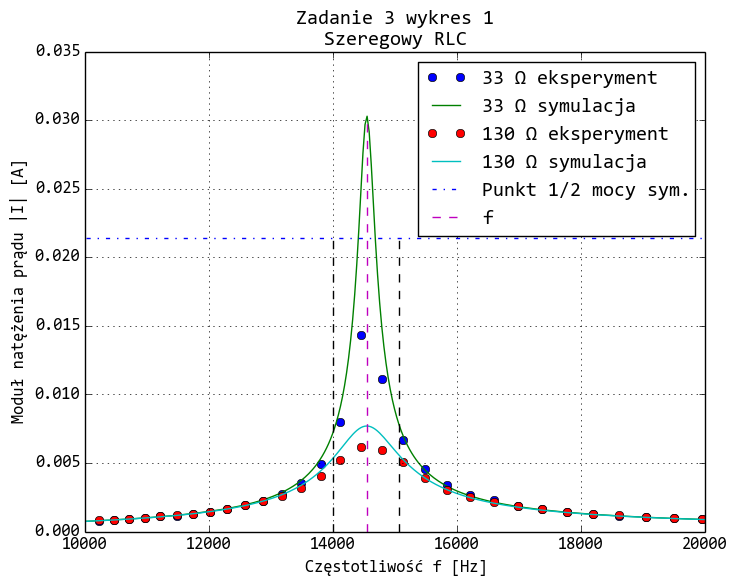
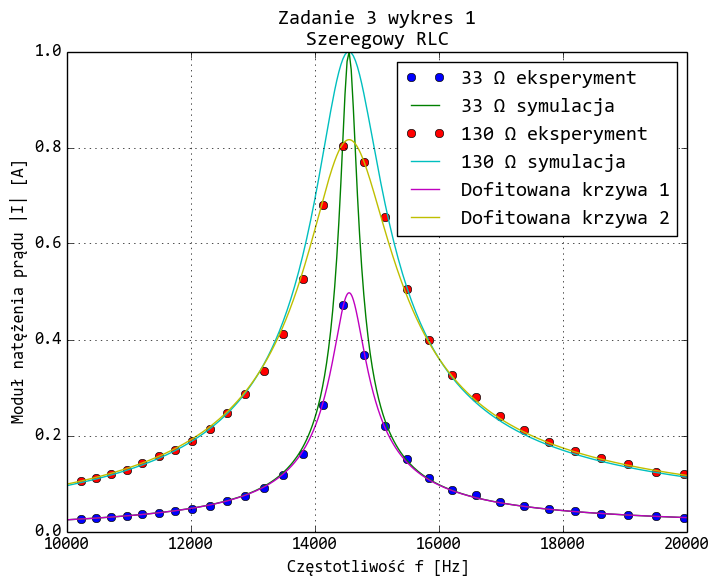
Tyle zabawy z fitowaniem

diff --git a/Cw2Rezonans/Karolina/BodePlotMultifileZ3W1.py b/Cw2Rezonans/Karolina/BodePlotMultifileZ3W1.py
@@ -1,8 +1,9 @@
 # -*- coding: utf-8 -*-
-from __future__ import unicode_literals
+from __future__ import unicode_literals, division
 import numpy as np
 import matplotlib.pyplot as plt
 from matplotlib import rc
+import scipy.optimize
 import os
 from matplotlib.ticker import MultipleLocator, FormatStrFormatter, FixedLocator
 
@@ -10,20 +11,21 @@ rc('font', family='Consolas')
 from matplotlib.ticker import MultipleLocator, FormatStrFormatter, FixedLocator
 
 files = ["real_zad1_r30_Gaussed.dat","sim_zad1_r30.dat","real_zad1_r130_Gaussed.dat", "sim_zad1_r130.dat"]
+
 Dane=[]
 for NazwaPliku in files:
     Dane.append(np.loadtxt(NazwaPliku))
 Xex=Dane[0][:, 0]
-Yex=10**(Dane[0][:, 1]/20.)/33.
+Yex=10**(Dane[0][:, 1]/20.)
 plt.plot(Xex, Yex, "o", label=u"33 Ω eksperyment")
 Xsim=Dane[1][:, 0]
-Ysim=10**(Dane[1][:, 1]/20.)/33.
+Ysim=10**(Dane[1][:, 1]/20.)
 plt.plot(Xsim, Ysim, "-", label=u"33 Ω symulacja")
 Xex2=Dane[2][:, 0]
-Yex2=10**(Dane[2][:, 1]/20.)/130.
+Yex2=10**(Dane[2][:, 1]/20.)
 plt.plot(Xex2, Yex2, "o", label=u"130 Ω eksperyment")
 Xsim2=Dane[3][:, 0]
-Ysim2=10**(Dane[3][:, 1]/20.)/130.
+Ysim2=10**(Dane[3][:, 1]/20.)
 plt.plot(Xsim2, Ysim2, "-", label=u"130 Ω symulacja")
 
 
@@ -31,13 +33,64 @@ minx=np.round((min((min(Xsim), min(Xex)))/10000))*10000
 maxx=np.round((max((max(Xsim), max(Xex)))/10000))*10000
 xticks=np.linspace(minx, maxx, 6)
 
+#WERSJA Z FITEM f0
+##def Lorentz(f, Q, f0,A):
+##    return A/np.sqrt(1+Q*Q*(f/f0 - f0/f)**2)
+##popt, pcov = scipy.optimize.curve_fit(Lorentz, Xex, Yex)
+##perr = np.sqrt(np.diag(pcov))
+##print "[Q\tf0\tA]"
+##print popt
+##print perr
+##Xtheory=np.linspace(minx, maxx, 100000)
+##Ytheory=Lorentz(Xtheory, popt[0], popt[1], popt[2])
+##plt.plot(Xtheory, Ytheory, "-", label=u"Dofitowana krzywa")
 
-Ysim_quality=max(Ysim)/np.sqrt(2)
-Xsim_quality=[min(Xsim),max(Xsim)]
-plt.plot(Xsim_quality, [Ysim_quality,Ysim_quality], "b-.", label=u"Punkt 1/2 mocy sym.")
-plt.plot([14007,14007], [0,Ysim_quality], "k--")
-plt.plot([15074,15074], [0,Ysim_quality], "k--")
-plt.plot([1.455459100000000035e+04,1.455459100000000035e+04], [0,max(Ysim)], "m--", label=u"f\0")
+f0=14554.
+def Lorentz(f, Q, A):
+    return A/np.sqrt(1.+Q*Q*(f/f0 - f0/f)**2)
+popt, pcov = scipy.optimize.curve_fit(Lorentz, Xex, Yex)
+perr = np.sqrt(np.diag(pcov))
+print "[Q\tA]"
+print 2*popt
+print perr
+Xtheory=np.linspace(minx, maxx, 100000)
+Ytheory=Lorentz(Xtheory, popt[0], popt[1])
+plt.plot(Xtheory, Ytheory, "-", label=u"Dofitowana krzywa 1")
+
+popt, pcov = scipy.optimize.curve_fit(Lorentz, Xex2, Yex2)
+perr = np.sqrt(np.diag(pcov))
+print "[Q\tA]"
+print 2*popt
+print perr
+Xtheory=np.linspace(minx, maxx, 100000)
+Ytheory=Lorentz(Xtheory, popt[0], popt[1])
+plt.plot(Xtheory, Ytheory, "-", label=u"Dofitowana krzywa 2")
+
+
+
+##YsimQfactor=np.ones_like(Yex)*max(Yex)/np.sqrt(2)
+##Ysimf2=14689.
+##Ysimf1=14421.
+##B=Ysimf2-Ysimf1
+##print B
+##Q=f0/B
+##print Q
+##print np.abs(Ysim-YsimQfactor)
+##plt.plot(Xsim, np.abs(Ysim-YsimQfactor))
+##plt.show()
+
+
+
+##plt.plot(Xex, YsimQfactor, "-.")
+##Ysim2Qfactor=np.ones_like(Ysim2)*max(Ysim2)/np.sqrt(2)
+##plt.plot(Xsim2, Ysim2Qfactor, "-.")
+##Ysim_quality=max(Ysim)/np.sqrt(2)
+##Xsim_quality=[min(Xsim),max(Xsim)]
+##plt.plot(Xsim_quality, [Ysim_quality,Ysim_quality], "b-.", label=u"Punkt 1/2 mocy sym.")
+##plt.plot([14007,14007], [0,Ysim_quality], "k--")
+##plt.plot([15074,15074], [0,Ysim_quality], "k--")
+##plt.plot([1.455459100000000035e+04,1.455459100000000035e+04], [0,max(Ysim)], "m--", label=u"f\0")
+
 xticks=np.linspace(minx, maxx, 6)
 
 #plt.xscale('log')

diff --git a/Cw2Rezonans/Karolina/BodePlotMultifileZ5W1.py b/Cw2Rezonans/Karolina/BodePlotMultifileZ5W1.py
@@ -1,9 +1,10 @@
 # -*- coding: utf-8 -*-
-from __future__ import unicode_literals
+from __future__ import unicode_literals, division
 import numpy as np
 import matplotlib.pyplot as plt
 from matplotlib import rc
 import os
+import scipy.optimize
 from matplotlib.ticker import MultipleLocator, FormatStrFormatter, FixedLocator
 
 rc('font', family='Consolas')
@@ -36,6 +37,49 @@ plt.plot([14007,14007], [0,Ysim_quality], "k--")
 plt.plot([15074,15074], [0,Ysim_quality], "k--")
 plt.plot([1.455459100000000035e+04,1.455459100000000035e+04], [0,max(Ysim)], "m--", label=u"f\0")
 xticks=np.linspace(minx, maxx, 6)
+
+##f0=14554.
+##def Lorentz(f, Q):
+##    return 1/np.sqrt(1+Q*Q*(f/f0 - f0/f)**2)
+##popt, pcov = scipy.optimize.curve_fit(Lorentz, Xex, Yex)
+##perr = np.sqrt(np.diag(pcov))
+##print "[Q]"
+##print popt
+##print perr
+##Xtheory=np.linspace(minx, maxx, 100000)
+##Ytheory=Lorentz(Xtheory, popt[0])
+##plt.plot(Xtheory, Ytheory, "-", label=u"Dofitowana krzywa 1")
+##
+##popt, pcov = scipy.optimize.curve_fit(Lorentz, Xex2, Yex2)
+##perr = np.sqrt(np.diag(pcov))
+##print "[Q]"
+##print popt
+##print perr
+##Xtheory=np.linspace(minx, maxx, 100000)
+##Ytheory=Lorentz(Xtheory, popt[0])
+##plt.plot(Xtheory, Ytheory, "-", label=u"Dofitowana krzywa 2")
+
+f0=14554.
+def Lorentz(f, Q,A):
+    return A/np.sqrt(1+Q*Q*(f/f0 - f0/f)**2)
+popt, pcov = scipy.optimize.curve_fit(Lorentz, Xex, Yex)
+perr = np.sqrt(np.diag(pcov))
+print "[Q\tA]"
+print popt
+print perr
+Xtheory=np.linspace(minx, maxx, 100000)
+Ytheory=Lorentz(Xtheory, popt[0], popt[1])
+plt.plot(Xtheory, Ytheory, "-", label=u"Dofitowana krzywa 1")
+
+popt, pcov = scipy.optimize.curve_fit(Lorentz, Xex2, Yex2)
+perr = np.sqrt(np.diag(pcov))
+print "[Q\tA]"
+print popt
+print perr
+Xtheory=np.linspace(minx, maxx, 100000)
+Ytheory=Lorentz(Xtheory, popt[0], popt[1])
+plt.plot(Xtheory, Ytheory, "-", label=u"Dofitowana krzywa 1")
+
 
 #plt.xscale('log')
 #plt.yscale('log')

diff --git a/Cw2Rezonans/Karolina/Oscyloskop/StosunkiAmplitud.py b/Cw2Rezonans/Karolina/Oscyloskop/StosunkiAmplitud.py
@@ -9,8 +9,9 @@ import os
 from matplotlib import rc
 
 rc('font',family="Consolas")
-files=["real_zad9_05f.txt"]
-for NazwaPliku in files:
+files=["real_zad5_1f.txt", "real_zad5_05f_p2.txt", "real_zad5_033f.txt", "real_zad9_1f.txt", "real_zad9_05f.txt", "real_zad9_033f.txt"]
+dane=np.zeros((len(files), 2))
+for FileIndex, NazwaPliku in enumerate(files):
     print NazwaPliku
     Plik=open(NazwaPliku)
     #print DeltaT
@@ -21,7 +22,6 @@ for NazwaPliku in files:
     Dane=Dane[5:]
     Plik.close()
 
-    print M
     Ys=[np.zeros(len(Dane)) for i in range(M)]
 
     for m in range(M):
@@ -31,23 +31,18 @@ for NazwaPliku in files:
             except:
                 print m, i, 2+3*m, len(Dane[i].split()), Dane[i].split()
         #print i, Y[i]
-    X=np.zeros_like(Ys[0])
-    for i in range(len(X)):
-        X[i]=i*DeltaT
 
-    for y in Ys:
-        print max(y)-min(y)
-    Opis=u"Układ równoległy\nPołowa częstotliwości rezonansowej"
-    Nazwa=u"Z9W2"
-    plt.title(u"Przebieg napięciowy\n"+Opis)
-    plt.xlabel(u"Czas t [s]")
-    plt.ylabel(u"Napięcie [V]")
-    plt.plot(X,Ys[0],label=u"Wejście")
-    plt.plot(X,Ys[1],label=u"Wyjście")
-    plt.grid()
-    plt.legend(loc="best")
-    plt.savefig(Nazwa + ".png", bbox_inches='tight')
-    plt.show()
-
-
-
+    print max(Ys[0])-min(Ys[0])
+    dane[FileIndex, 0] = max(Ys[0])-min(Ys[0])
+    print max(Ys[1])-min(Ys[1])
+    dane[FileIndex, 1] = max(Ys[1])-min(Ys[1])
+print dane
+print "szeregowy"
+stosunkiszeregowy=dane[1:3,1]/dane[0,1]
+print stosunkiszeregowy
+stosunkiteor=np.array([0, 1/3.])
+print stosunkiszeregowy-stosunkiteor
+print "rownolegly"
+stosunkirownolegly=dane[4:6,1]/dane[3,1]
+print stosunkirownolegly
+print stosunkirownolegly-stosunkiteor

diff --git a/Cw2Rezonans/Karolina/Obliczeniapkt4.py b/Cw2Rezonans/Karolina/Obliczeniapkt4.py
@@ -1,0 +1,16 @@
+from __future__ import division
+
+from numpy import *
+f0=14553.381
+Rg = 50.
+C=6.2e-9
+w0=2*pi*f0
+L=1/w0/w0/C
+print L
+dane=[(33., 53.), (133.,  13.)]
+for R, Q in dane:
+    print R, Q
+    rl=1/Q/w0/C-Rg-R
+    print rl
+    rl = w0*L/Q-w0**2 * C*L*(Rg+R)
+    print rl

diff --git a/Cw2Rezonans/Karolina/Oscyloskop/OscyloskopZ9W3.py b/Cw2Rezonans/Karolina/Oscyloskop/OscyloskopZ9W3.py
@@ -35,7 +35,8 @@ for NazwaPliku in files:
     for i in range(len(X)):
         X[i]=i*DeltaT
 
-
+    for y in Ys:
+        print max(y)-min(y)
     Opis=u"Układ równoległy\nJedna trzecia częstotliwości rezonansowej"
     Nazwa=u"Z9W3"
     plt.title(u"Przebieg napięciowy\n"+Opis)

diff --git a/Cw2Rezonans/Karolina/Oscyloskop/OscyloskopZ5W3.py b/Cw2Rezonans/Karolina/Oscyloskop/OscyloskopZ5W3.py
@@ -35,7 +35,8 @@ for NazwaPliku in files:
     for i in range(len(X)):
         X[i]=i*DeltaT
 
-
+    for y in Ys:
+        print max(y)-min(y)
     Opis=u"Układ szeregowy\nJedna trzecia częstotliwości rezonansowej"
     Nazwa=u"Z5W3"
     plt.title(u"Przebieg napięciowy\n"+Opis)

diff --git a/Cw2Rezonans/Karolina/Oscyloskop/OscyloskopZ5W2.py b/Cw2Rezonans/Karolina/Oscyloskop/OscyloskopZ5W2.py
@@ -35,7 +35,8 @@ for NazwaPliku in files:
     for i in range(len(X)):
         X[i]=i*DeltaT
 
-
+    for y in Ys:
+        print max(y)-min(y)
     Opis=u"Układ szeregowy\nPołowa częstotliwości rezonansowej"
     Nazwa=u"Z5W2"
     plt.title(u"Przebieg napięciowy\n"+Opis)

diff --git a/Cw2Rezonans/Karolina/Oscyloskop/OscyloskopZ9W1.py b/Cw2Rezonans/Karolina/Oscyloskop/OscyloskopZ9W1.py
@@ -35,7 +35,8 @@ for NazwaPliku in files:
     for i in range(len(X)):
         X[i]=i*DeltaT
 
-
+    for y in Ys:
+        print max(y)-min(y)
     Opis=u"Układ równoległy\nCzęstotliwość rezonansowa"
     Nazwa=u"Z9W1"
     plt.title(u"Przebieg napięciowy\n"+Opis)

diff --git a/Cw2Rezonans/Karolina/Oscyloskop/OscyloskopZ5W1.py b/Cw2Rezonans/Karolina/Oscyloskop/OscyloskopZ5W1.py
@@ -35,7 +35,8 @@ for NazwaPliku in files:
     for i in range(len(X)):
         X[i]=i*DeltaT
 
-
+    for y in Ys:
+        print max(y)-min(y)
     Opis=u"Układ szeregowy\nCzęstotliwośc rezonansowa"
     Nazwa=u"Z5W1"
     plt.title(u"Przebieg napięciowy\n"+Opis)
